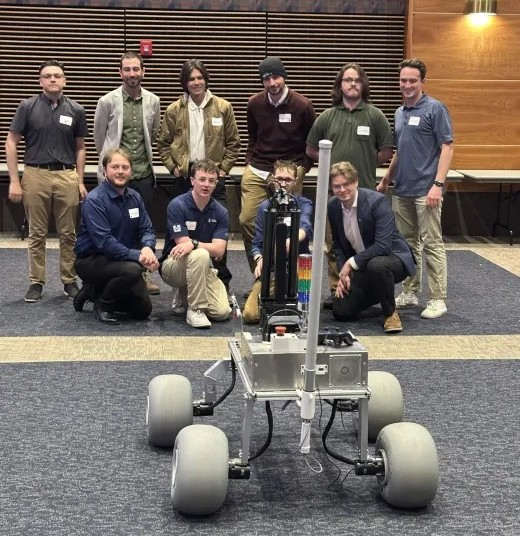
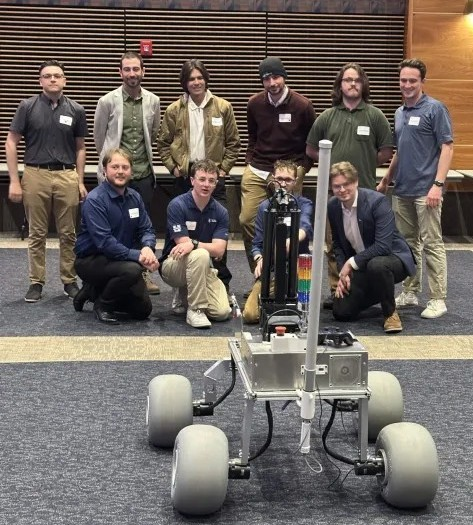
edit

diff --git a/index.html b/index.html
@@ -221,7 +221,7 @@
 									</header>
 									<p></p>
 									<ul class="contact">
-										<li class="icon solid fa-envelope"><a href="#">[email redacted]</a></li>
+										<li class="icon solid fa-envelope">[email redacted]</li>
 										<li class="icon solid fa-phone">(435) 557-9310</li>
 										<li class="icon solid fa-home">140 E 2200 N, apt 1004 <br />
 										North Logan, UT 84341</li>